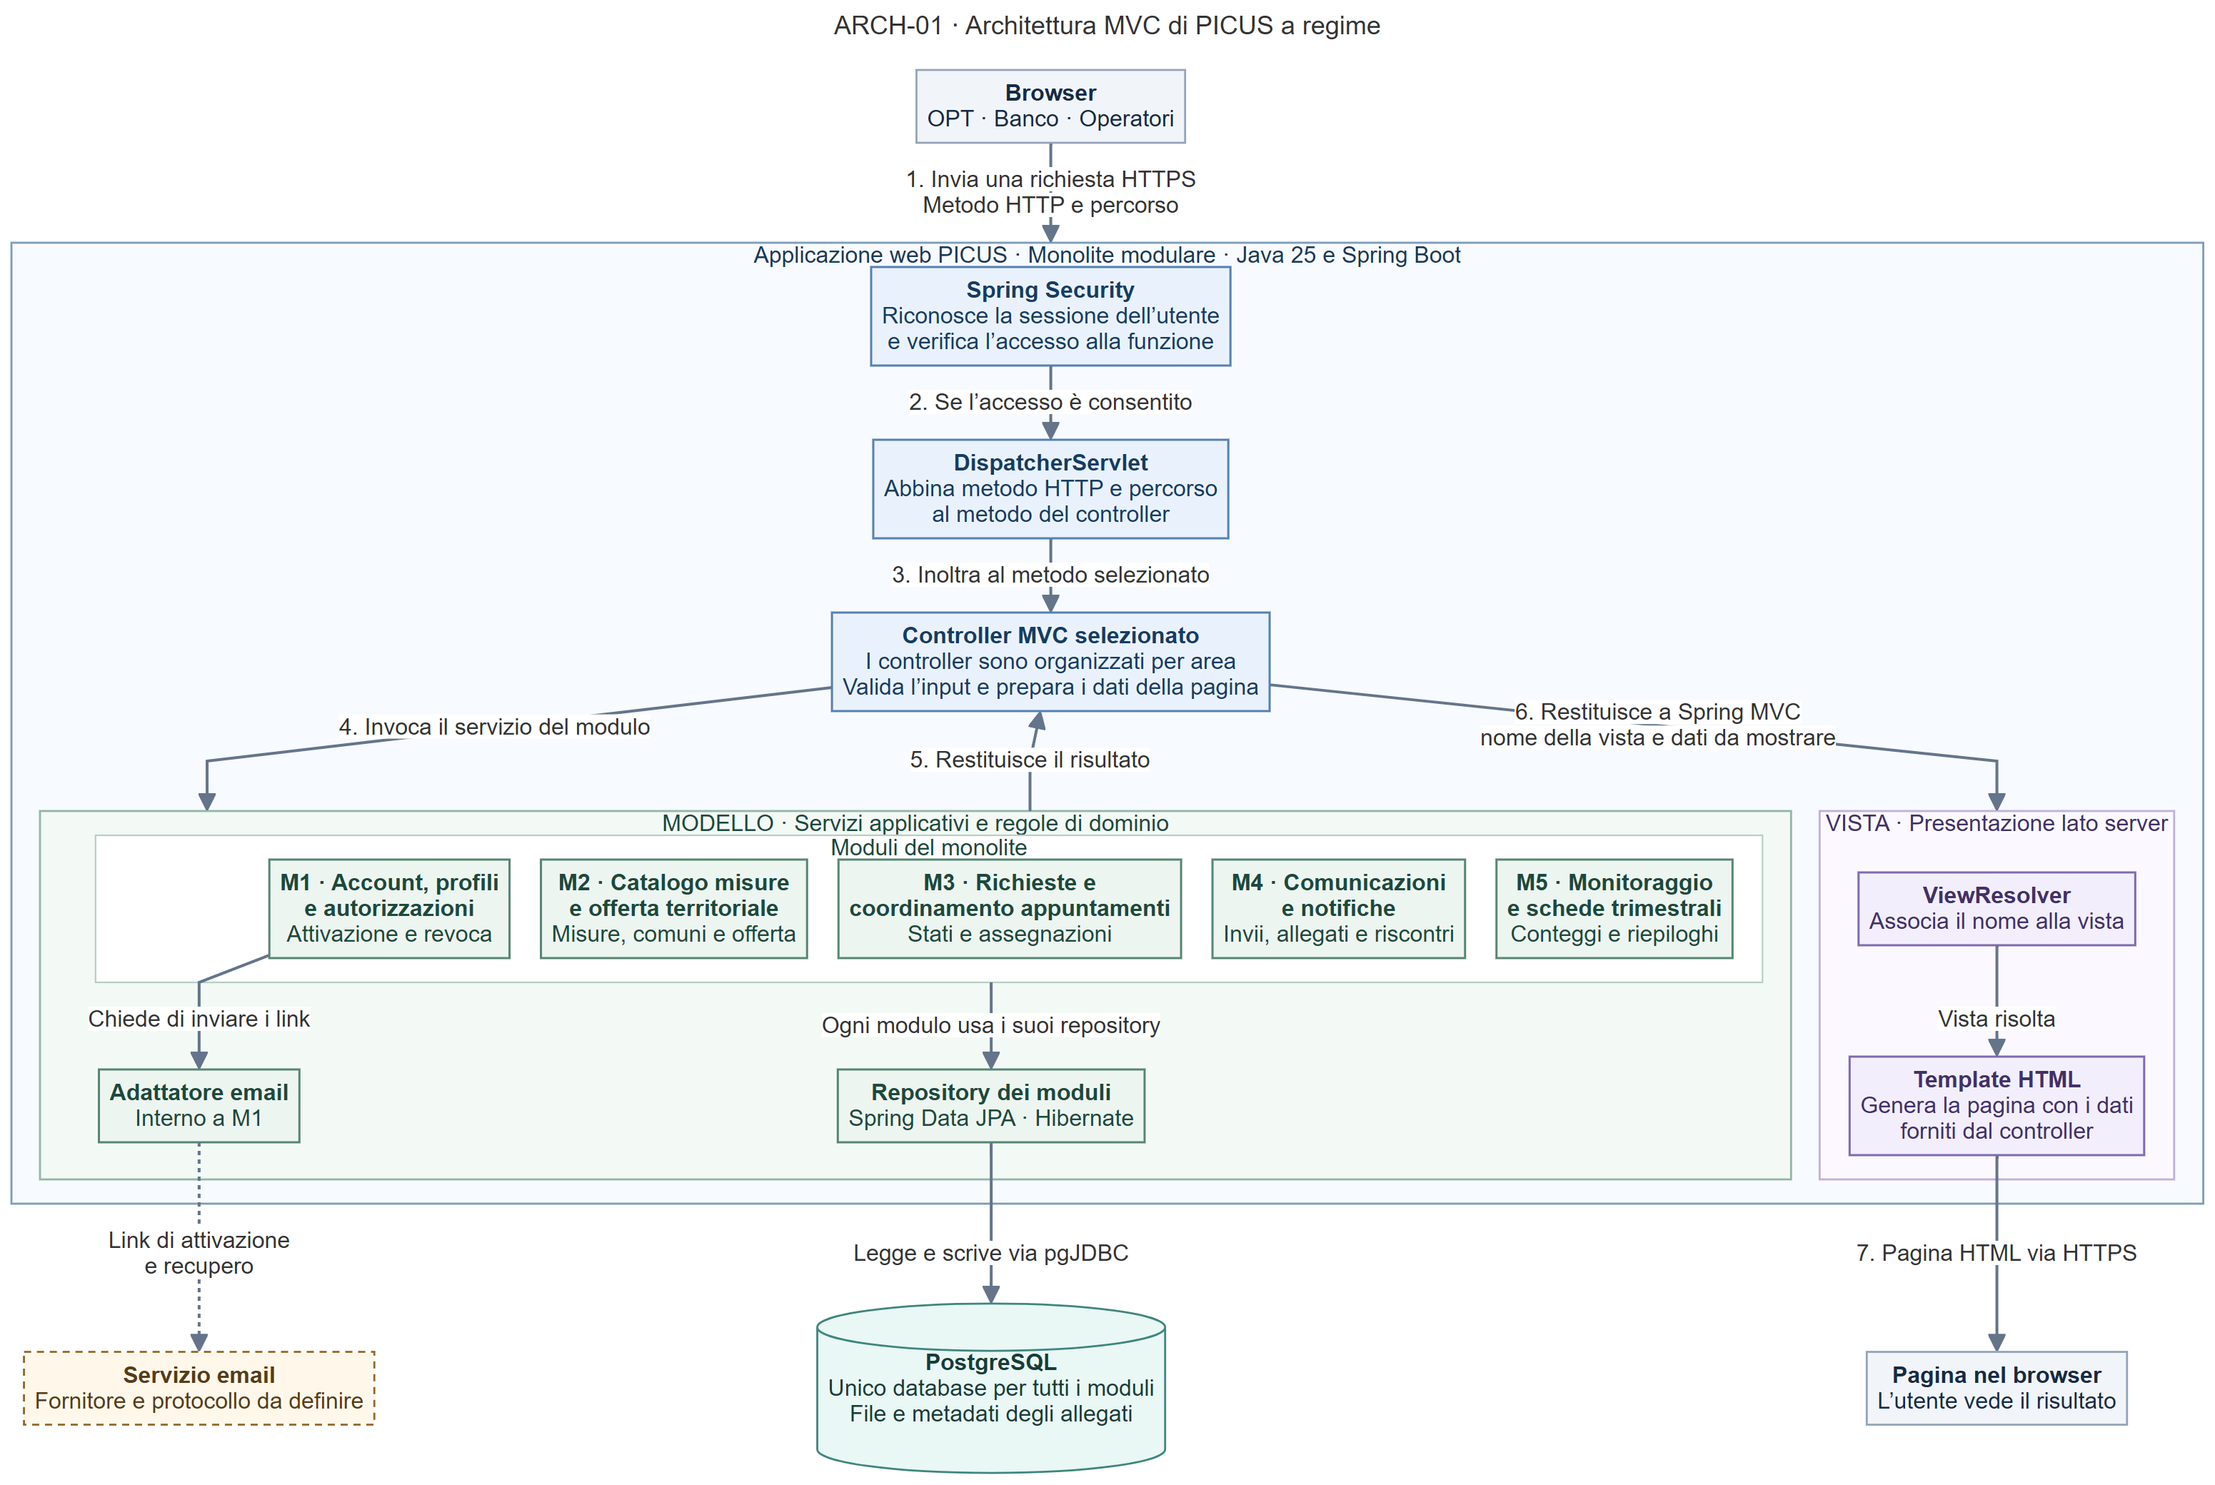
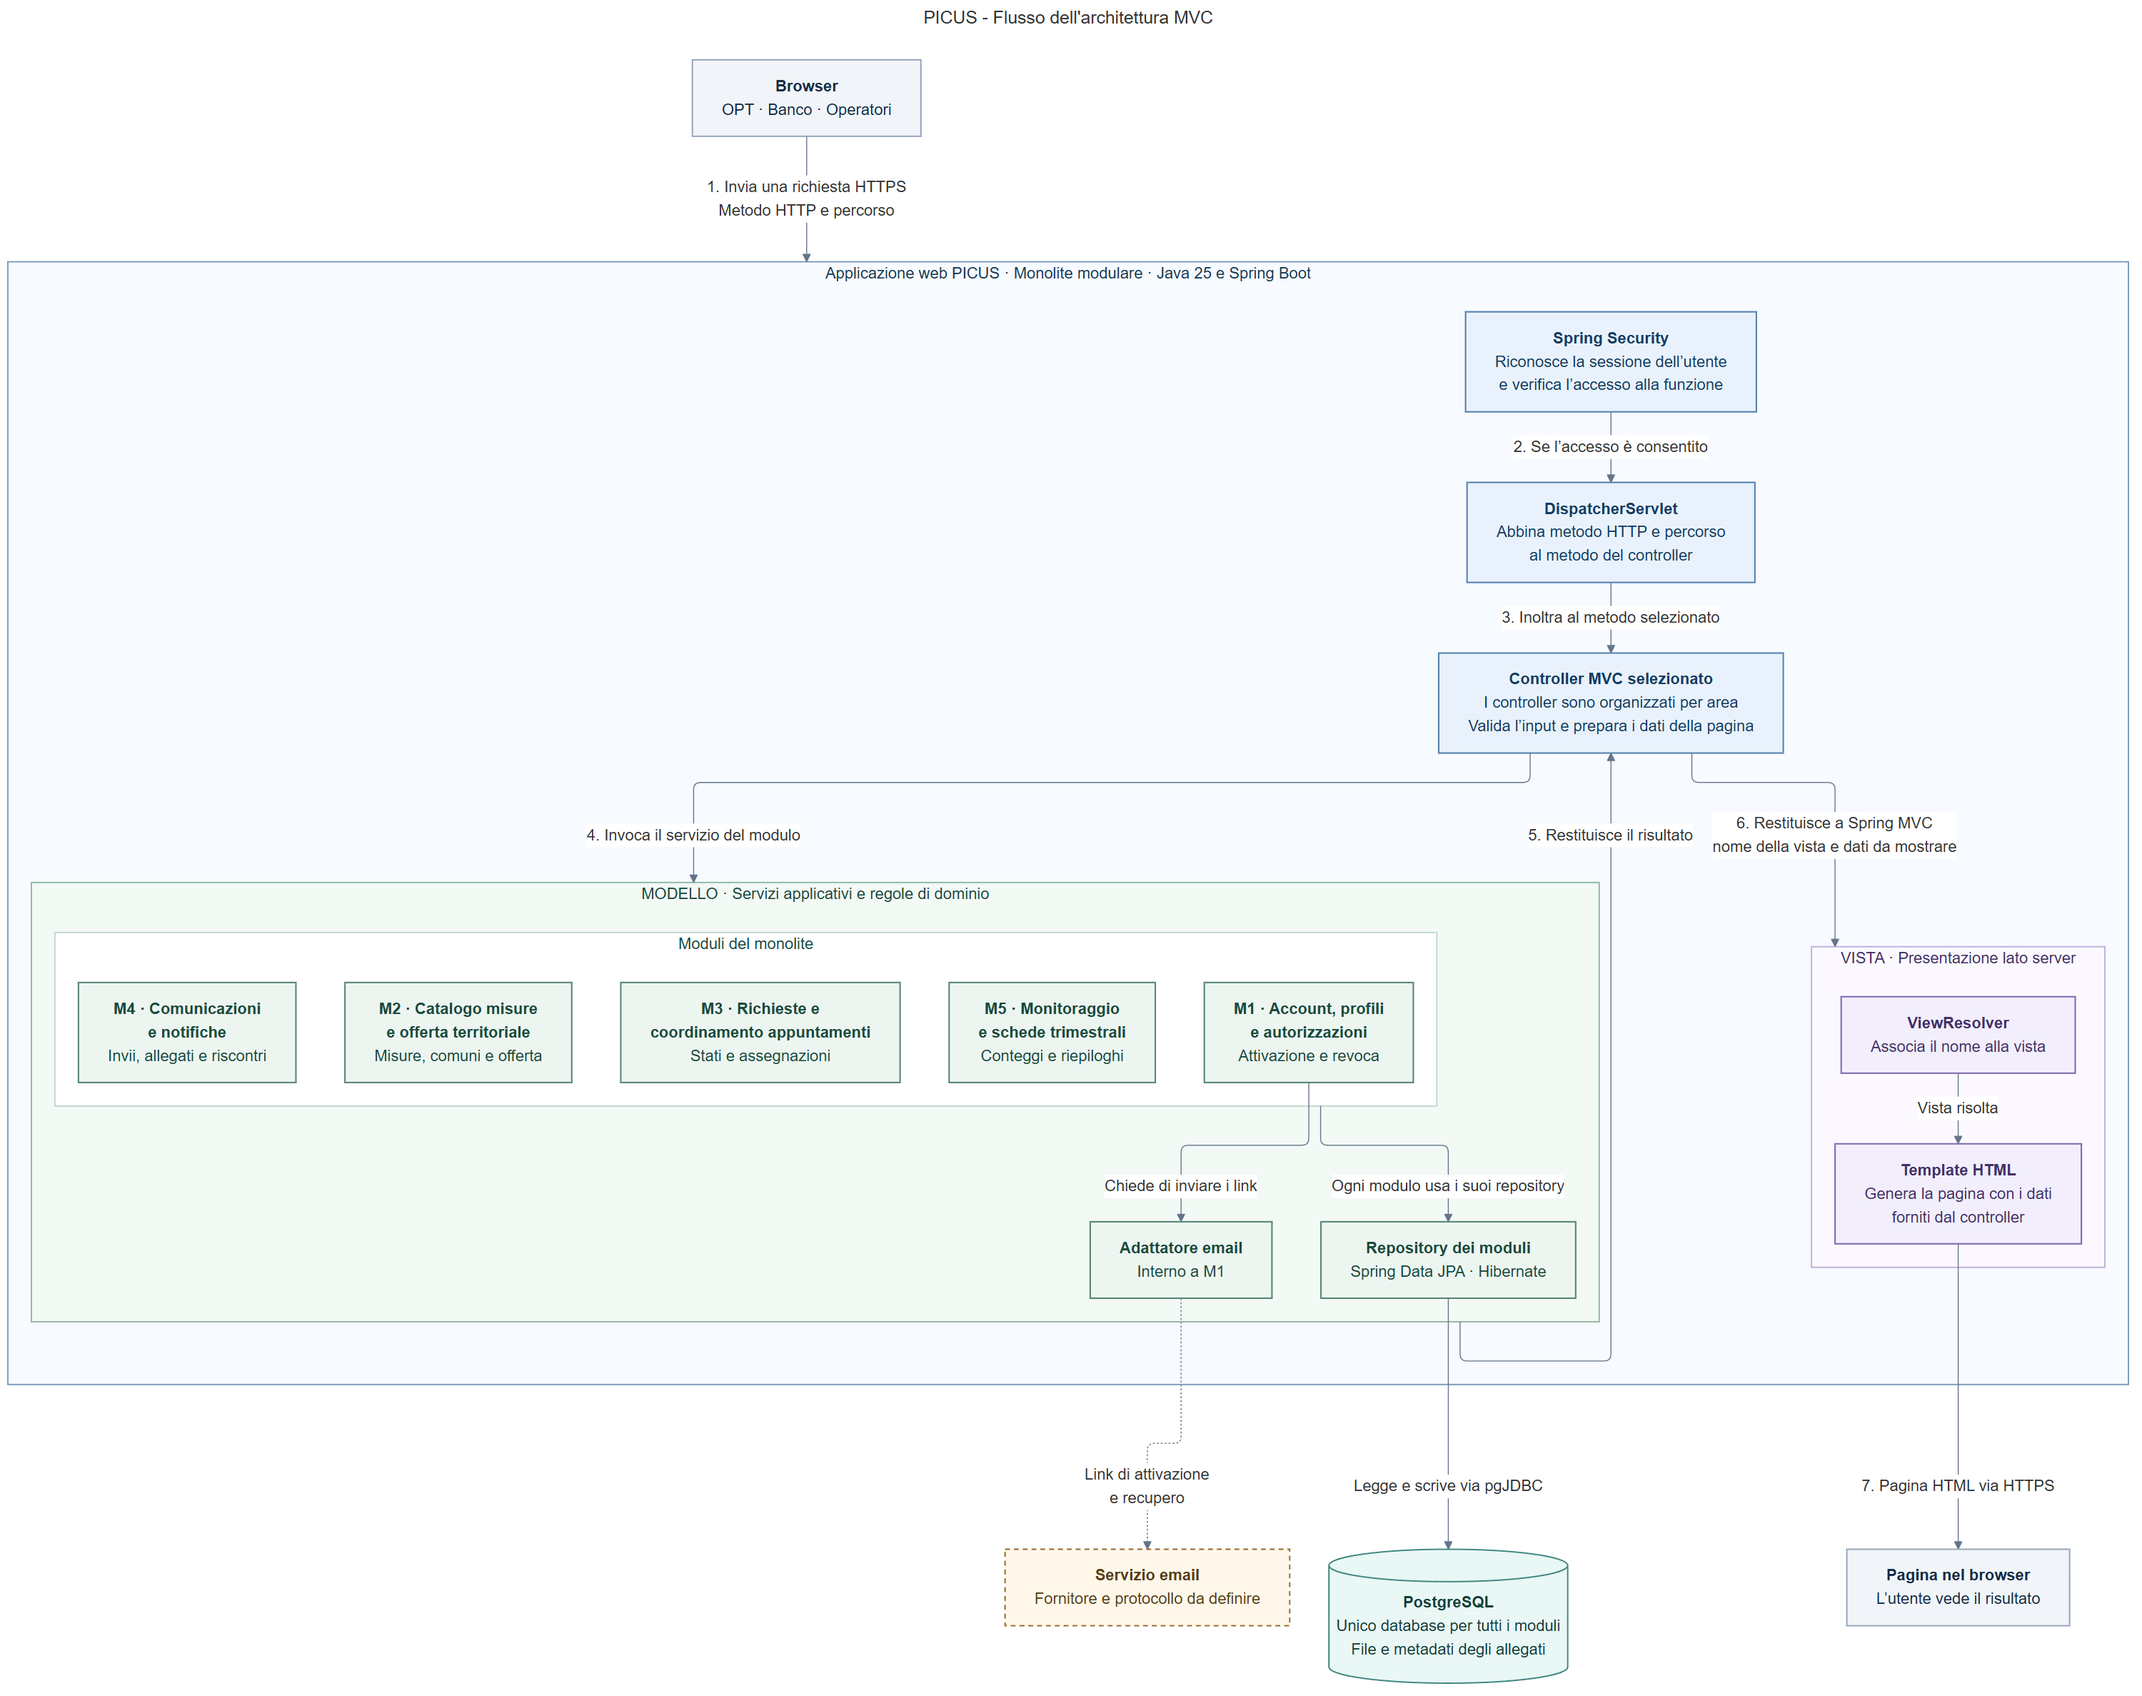
docs: aggiorna e uniforma i diagrammi architetturali

diff --git a/docs/architecture/README.md b/docs/architecture/README.md
@@ -1,16 +1,16 @@
 # Architettura
 
 - [CTX-01 v0.7 · Diagramma di contesto](diagrams/contesto/Context%20Diagram.drawio) · [Anteprima PNG](diagrams/contesto/Context%20Diagram.png)
-- [System Context di PICUS a regime](diagrams/PICUS-System-Context.mmd) · [Anteprima PNG](diagrams/PICUS-System-Context.png)
-- [ARCH-01 · Architettura MVC di PICUS a regime](diagrams/PICUS-Architettura-MVC.mmd) · [Anteprima PNG](diagrams/PICUS-Architettura-MVC.png)
-- [Diagramma dei moduli e dei package Java](diagrams/PICUS-Diagramma-Moduli.mmd) · [Anteprima PNG](diagrams/PICUS-Diagramma-Moduli.png)
-- [Deployment and Container View dello Sprint 2 con Docker Compose](diagrams/PICUS-Deployment-Container-View.mmd) · [Anteprima PNG](diagrams/PICUS-Deployment-Container-View.png)
+- [PICUS - System Context](diagrams/PICUS-System-Context.mmd) · [Anteprima PNG](diagrams/PICUS-System-Context.png)
+- [PICUS - Flusso dell'architettura MVC](diagrams/PICUS-Architettura-MVC.mmd) · [Anteprima PNG](diagrams/PICUS-Architettura-MVC.png)
+- [PICUS - Module&Package View](diagrams/PICUS-Module-Package-View.mmd) · [Anteprima PNG](diagrams/PICUS-Module-Package-View.png)
+- [PICUS - Deployment & Container View](diagrams/PICUS-Deployment-Container-View.mmd) · [Anteprima PNG](diagrams/PICUS-Deployment-Container-View.png)
 
-Nel diagramma dei moduli, ogni freccia parte dal modulo chiamante e punta al modulo di cui usa il package `api`. M1 fornisce identità, ruoli e profili. Ogni modulo applica i controlli di titolarità, assegnazione o ricezione sulle risorse che gestisce. Il tratteggio indica la collaborazione per le notifiche operative, da dettagliare.
+La vista dei moduli riprende i package di `src/main/java` presenti in `main` al commit `f3c4e95`. Le dipendenze `«import»` corrispondono agli import Java delle API; le dipendenze `«use»` rappresentano le collaborazioni previste con `ComunicazioniApi` e `CatalogoApi`. I contratti pubblici sono presenti, mentre le relative implementazioni sono ancora da completare.
 
-Sotto la radice Java `it.unina.picus` i moduli corrispondono ai package `utenze` (M1), `catalogo` (M2), `richieste` (M3), `comunicazioni` (M4) e `monitoraggio` (M5). Ogni collaborazione tra moduli passa per le interfacce e i DTO del package `api` del modulo chiamato. I controller di `web` invocano i casi d’uso del proprio modulo in `interno.applicazione`.
+Sotto la radice Java `it.unina.picus` i moduli corrispondono ai package `utenze` (M1), `catalogo` (M2), `richieste` (M3), `comunicazioni` (M4) e `monitoraggio` (M5). Ogni modulo contiene `web`, `api` e `interno`. In `richieste.interno` sono predisposti `applicazione`, `dominio` e `persistenza`; in `utenze.interno` e `catalogo.interno` è presente `persistenza`. `shared` è predisposto per i componenti tecnici condivisi. Ogni collaborazione tra moduli passa per le interfacce e i DTO del package `api` del modulo chiamato.
 
-In `interno.dominio` risiedono le regole e le interfacce dei repository. L’applicazione usa queste interfacce e gli adattatori di `interno.persistenza` le implementano con JPA. Gli adattatori di `interno.integrazioni` implementano i contratti richiesti dall’applicazione. Spring collega le implementazioni ai servizi tramite dependency injection via costruttore. [Dependency injection in Spring](https://docs.spring.io/spring-framework/reference/core/beans/dependencies/factory-collaborators.html)
+A regime, i controller di `web` invocano i casi d’uso del proprio modulo. In `interno.dominio` risiedono le regole e le interfacce dei repository; gli adattatori di `interno.persistenza` le implementano con JPA. L’eventuale package `interno.integrazioni` resta un’estensione prevista, non ancora presente in `main`. Spring collega le implementazioni ai servizi tramite dependency injection via costruttore. [Dependency injection in Spring](https://docs.spring.io/spring-framework/reference/core/beans/dependencies/factory-collaborators.html)
 
 PICUS usa un unico database PostgreSQL per tutti i moduli, inclusi file e metadati degli allegati. Ciascun modulo accede ai propri dati tramite i suoi repository. [ADR-001](../adr/ADR-001-monolite-modulare-mvc.md) · [Task di predisposizione dell’ambiente](https://github.com/Pinguini-alla-Fragola/Progetto-SAD/issues/77)
 
@@ -31,7 +31,7 @@ Il server ricava la titolarità dalla sessione e dai dati persistiti. Controller
 
 La #77 ha introdotto in `main` lo schema PostgreSQL, le mappature JPA e i dati demo. Flyway applica le migrazioni all’avvio. `RichiestaJpa` inizializza lo stato a `CREATA`. La colonna `erogatore_id` è facoltativa e riferisce l’account assegnato. Il flusso previsto la valorizza al passaggio a In programmazione, quando il Banco individua l’erogatore disponibile. [ADR-002](../adr/ADR-002-ciclo-di-vita-richiesta.md) · [PR #83](https://github.com/Pinguini-alla-Fragola/Progetto-SAD/pull/83)
 
-## Come leggere ARCH-01
+## Flusso dell'architettura MVC
 
 - **Ingresso.** Il browser invia una richiesta HTTPS con metodo HTTP e percorso. Spring Security riconosce la sessione e verifica l’accesso alla funzione. Se la richiesta prosegue, il `DispatcherServlet` usa metodo e percorso per individuare il metodo del controller a cui inoltrarla. [Flusso di Spring MVC](https://docs.spring.io/spring-framework/reference/web/webmvc/mvc-servlet/sequence.html)
 - **Dal Controller al Modello e alla Vista.** Il controller espone la funzione al browser tramite un endpoint HTTP. Chiama un servizio Java del modulo, riceve il risultato e lo usa per preparare i dati da mostrare. Consegna a Spring MVC il nome della vista e questi dati. Thymeleaf è il motore di template confermato e genera la pagina HTML per il browser. [Risoluzione della vista](https://docs.spring.io/spring-framework/reference/web/webmvc/mvc-servlet/viewresolver.html)
